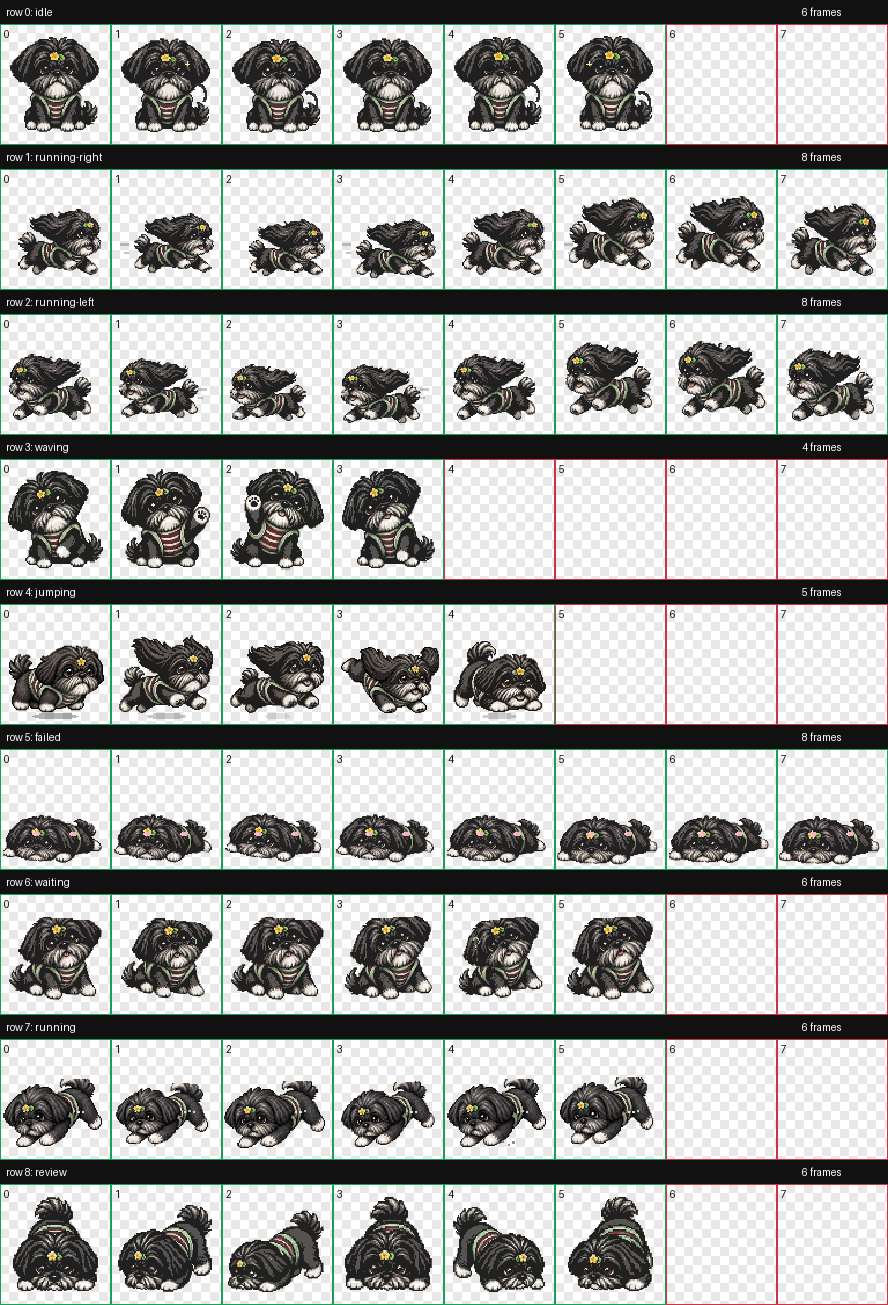
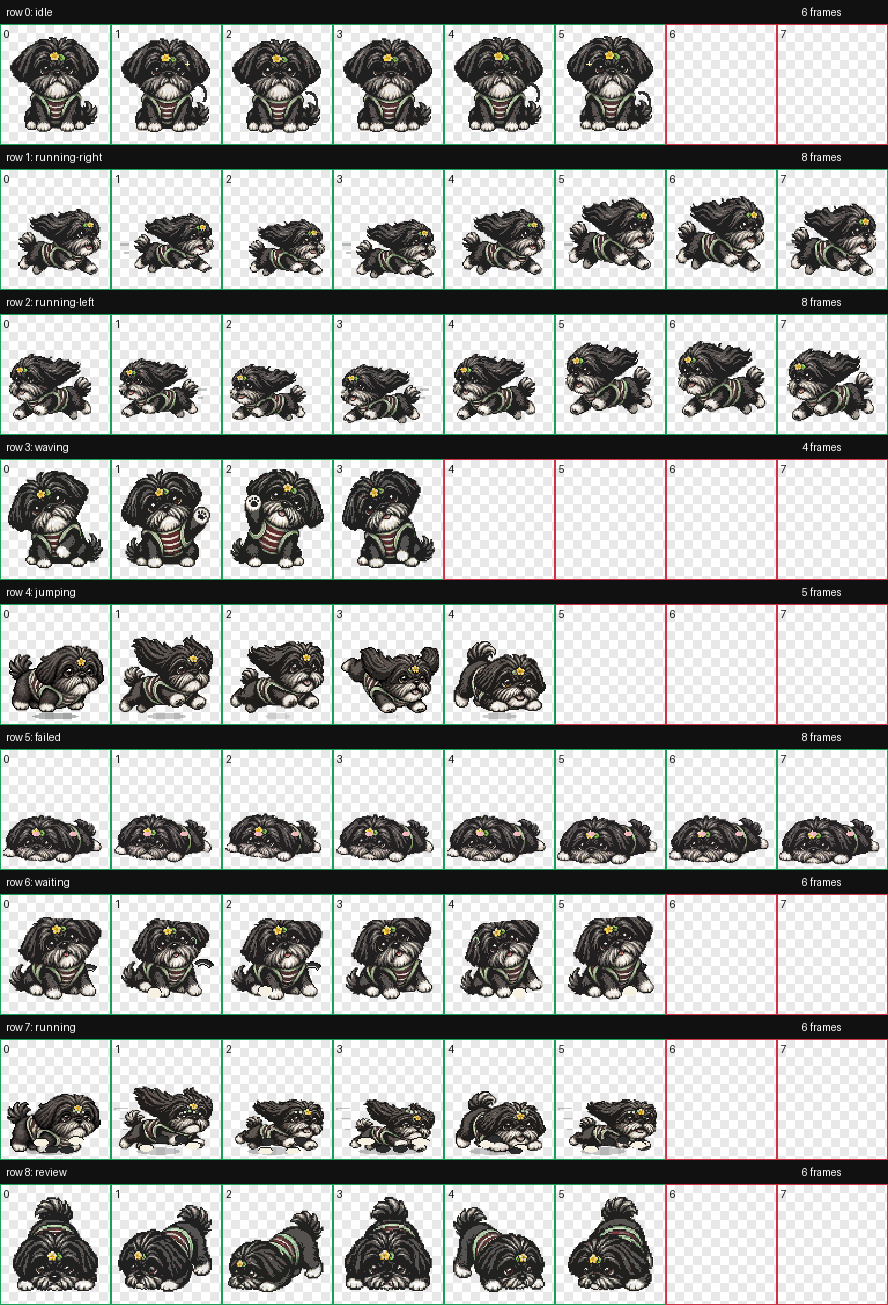
Make Udon running and waiting states more animated
Rework the active running row around the stronger four-legged jump poses so it reads as a low, forward run instead of a standing bounce. Add a clearer waiting loop with tail swish, paw tap, and small body motion.

Constraint: Codex custom pets use a fixed 8x9 atlas with row 7 mapped to running and row 6 mapped to waiting.

Rejected: Continuing to stretch the front-facing standing pose | it still looked like Udon was standing in place rather than running.

Confidence: medium

Scope-risk: narrow

Directive: Keep future running changes grounded in four-legged side poses, not the front idle pose.

Tested: python3 tools/build_udon_pet.py; verified spritesheet.webp is 1536x1872 and running/waiting GIFs are 192x208 with 6 frames; git diff --check

Not-tested: Live overlay refresh without restarting Codex, because the running app may cache pet assets.

diff --git a/tools/build_udon_pet.py b/tools/build_udon_pet.py
@@ -349,6 +349,130 @@ def add_tail_wag(canvas: Image.Image, frame: int) -> None:
     draw.arc((x - 10, y - 28 + offset, x + 22, y + 12 + offset), 250, 40, fill=(26, 27, 28, 230), width=5)
 
 
+def add_waiting_tail_swish(canvas: Image.Image, frame: int) -> None:
+    draw = ImageDraw.Draw(canvas)
+    # Draw this before the body so the tail reads as attached behind Udon.
+    tail_boxes = [
+        (132, 121, 176, 165, 210, 310),
+        (138, 112, 181, 155, 225, 330),
+        (134, 117, 178, 161, 215, 320),
+        (119, 112, 164, 157, 205, 305),
+        (112, 121, 157, 166, 195, 295),
+        (124, 118, 168, 162, 205, 310),
+    ]
+    x0, y0, x1, y1, start, end = tail_boxes[frame]
+    draw.arc((x0, y0, x1, y1), start, end, fill=(8, 9, 10, 245), width=11)
+    draw.arc((x0 + 2, y0 + 2, x1 - 3, y1 - 3), start, end, fill=(42, 42, 43, 245), width=7)
+    draw.arc((x0 + 6, y0 + 7, x1 - 8, y1 - 8), start + 4, end - 3, fill=(185, 181, 170, 155), width=2)
+
+
+def add_waiting_paw_tap(canvas: Image.Image, frame: int) -> None:
+    if frame not in {1, 2, 4, 5}:
+        return
+    draw = ImageDraw.Draw(canvas)
+    x = 63 if frame in {1, 2} else 118
+    lift = -5 if frame in {2, 5} else -2
+    draw_pixel_ellipse(draw, (x, 163 + lift, x + 24, 181 + lift), (246, 240, 224, 242))
+    draw.arc((x - 1, 162 + lift, x + 25, 182 + lift), 180, 360, fill=(8, 9, 10, 235), width=2)
+
+
+def add_front_run_shadow(canvas: Image.Image, frame: int) -> None:
+    draw = ImageDraw.Draw(canvas)
+    widths = [92, 80, 68, 82, 94, 76]
+    width = widths[frame]
+    draw.ellipse(
+        ((CELL_W - width) // 2, 188, (CELL_W + width) // 2, 199),
+        fill=(18, 22, 20, 58),
+    )
+
+
+def add_front_run_tail(canvas: Image.Image, frame: int) -> None:
+    draw = ImageDraw.Draw(canvas)
+    boxes = [
+        (132, 118, 176, 162, 220, 335),
+        (119, 110, 160, 151, 190, 305),
+        (128, 113, 171, 156, 210, 325),
+        (139, 112, 181, 154, 230, 345),
+        (127, 119, 170, 162, 210, 325),
+        (116, 116, 158, 159, 195, 310),
+    ]
+    x0, y0, x1, y1, start, end = boxes[frame]
+    draw.arc((x0, y0, x1, y1), start, end, fill=(8, 9, 10, 235), width=9)
+    draw.arc((x0 + 2, y0 + 2, x1 - 2, y1 - 2), start, end, fill=(44, 44, 45, 235), width=6)
+
+
+def add_front_run_paws(canvas: Image.Image, frame: int) -> None:
+    draw = ImageDraw.Draw(canvas)
+    # Alternating four-beat gait: front paws reach forward while rear paws tuck in.
+    paw_sets = [
+        [(55, 165, 22, 15), (118, 173, 24, 14), (72, 184, 20, 12), (105, 184, 20, 12)],
+        [(48, 173, 23, 14), (124, 164, 23, 15), (69, 181, 20, 12), (108, 187, 20, 12)],
+        [(59, 181, 22, 13), (113, 176, 22, 13), (65, 166, 20, 13), (114, 184, 20, 12)],
+        [(70, 174, 22, 14), (102, 165, 24, 15), (58, 184, 20, 12), (119, 181, 20, 12)],
+        [(55, 163, 23, 15), (119, 174, 23, 14), (73, 186, 20, 12), (104, 183, 20, 12)],
+        [(47, 171, 22, 14), (126, 166, 23, 15), (68, 184, 20, 12), (110, 186, 20, 12)],
+    ]
+    for index, (x, y, w, h) in enumerate(paw_sets[frame]):
+        fill = (248, 242, 226, 250) if index < 2 else (34, 34, 35, 235)
+        draw_pixel_ellipse(draw, (x, y, x + w, y + h), fill)
+        draw.arc((x - 1, y - 1, x + w + 1, y + h + 1), 180, 360, fill=(7, 8, 9, 235), width=2)
+    for x, y in [(38, 176), (147, 176)]:
+        if frame in {1, 3, 5}:
+            draw.line((x, y, x - 10 if x < 96 else x + 10, y + 2), fill=(91, 104, 98, 75), width=2)
+
+
+def add_side_run_shadow(canvas: Image.Image, frame: int) -> None:
+    draw = ImageDraw.Draw(canvas)
+    widths = [92, 76, 86, 108, 88, 78]
+    width = widths[frame]
+    draw.ellipse(
+        (44, 187, 44 + width, 199),
+        fill=(18, 22, 20, 60),
+    )
+
+
+def add_side_run_paws(canvas: Image.Image, frame: int) -> None:
+    draw = ImageDraw.Draw(canvas)
+    # Explicit gallop cycle. The generated dog body carries the face/harness;
+    # these paws make the running beat readable even at pet-overlay size.
+    paw_sets = [
+        [(58, 171, 26, 13), (119, 168, 25, 13), (79, 185, 22, 11), (105, 186, 22, 11)],
+        [(49, 181, 24, 12), (130, 177, 25, 12), (78, 166, 21, 12), (111, 166, 21, 12)],
+        [(63, 187, 24, 11), (111, 187, 24, 11), (69, 171, 22, 12), (125, 169, 22, 12)],
+        [(43, 169, 29, 13), (136, 170, 30, 13), (75, 184, 23, 11), (105, 184, 23, 11)],
+        [(61, 174, 25, 13), (121, 181, 24, 12), (76, 166, 22, 12), (113, 188, 22, 10)],
+        [(50, 183, 24, 12), (131, 176, 26, 12), (82, 170, 21, 12), (108, 168, 21, 12)],
+    ]
+    for index, (x, y, w, h) in enumerate(paw_sets[frame]):
+        fill = (247, 241, 225, 250) if index in {0, 1} else (28, 28, 29, 235)
+        draw_pixel_ellipse(draw, (x, y, x + w, y + h), fill)
+        draw.arc((x - 1, y - 1, x + w + 1, y + h + 1), 180, 360, fill=(7, 8, 9, 235), width=2)
+
+
+def add_side_run_tail(canvas: Image.Image, frame: int) -> None:
+    draw = ImageDraw.Draw(canvas)
+    boxes = [
+        (123, 100, 171, 142, 210, 340),
+        (124, 88, 176, 130, 215, 345),
+        (122, 94, 173, 136, 210, 338),
+        (127, 104, 176, 147, 218, 350),
+        (123, 98, 172, 140, 212, 340),
+        (126, 90, 176, 132, 218, 346),
+    ]
+    x0, y0, x1, y1, start, end = boxes[frame]
+    draw.arc((x0, y0, x1, y1), start, end, fill=(8, 9, 10, 235), width=10)
+    draw.arc((x0 + 2, y0 + 2, x1 - 2, y1 - 2), start, end, fill=(47, 47, 48, 235), width=6)
+
+
+def add_speed_lines(canvas: Image.Image, frame: int) -> None:
+    if frame in {0, 2, 4}:
+        return
+    draw = ImageDraw.Draw(canvas)
+    for i, length in enumerate((22, 15, 9)):
+        y = 119 + i * 18
+        draw.line((29, y, 29 - length, y + 1), fill=(91, 104, 98, 95), width=3)
+
+
 def add_dig_particles(canvas: Image.Image, frame: int) -> None:
     if frame not in {1, 2, 4}:
         return
@@ -363,6 +487,26 @@ def build_override_frame(row: int, frame: int, sprite: Image.Image) -> Image.Ima
     if row == 4:
         add_hop_shadow(canvas, min(frame, 4))
     paste_center(canvas, sprite)
+    return canvas.resize((CELL_W // 2, CELL_H // 2), Image.Resampling.NEAREST).resize((CELL_W, CELL_H), Image.Resampling.NEAREST)
+
+
+def build_running_from_jump_frame(frame: int, jump_sprites: list[Image.Image]) -> Image.Image:
+    canvas = Image.new("RGBA", (CELL_W, CELL_H), (255, 255, 255, 0))
+    sequence = [0, 1, 2, 1, 4, 2]
+    sprite = jump_sprites[sequence[frame]]
+    add_side_run_shadow(canvas, frame)
+    add_speed_lines(canvas, frame)
+    # Reuse the stronger four-legged jumping poses, but pin them close to the
+    # ground and stretch forward so they read as a run instead of a hop.
+    sprite = transform(
+        sprite,
+        sx=[1.05, 1.10, 1.14, 1.16, 1.08, 1.12][frame],
+        sy=[0.96, 0.93, 0.90, 0.88, 0.94, 0.91][frame],
+        angle=[0, -2, -4, -5, 1, -3][frame],
+    )
+    paste_center(canvas, sprite, dx=[-4, 0, 4, 8, 1, 5][frame], dy=[9, 7, 9, 11, 8, 10][frame])
+    add_side_run_paws(canvas, frame)
+    add_focus_dots(canvas, frame)
     return canvas.resize((CELL_W // 2, CELL_H // 2), Image.Resampling.NEAREST).resize((CELL_W, CELL_H), Image.Resampling.NEAREST)
 
 
@@ -401,14 +545,23 @@ def build_frame(row_sprites: list[Image.Image], row: int, frame: int) -> Image.I
         paste_center(canvas, sprite, dy=12 + [0, 1, 2, 1, 0, 0, -1, 0][frame])
         add_failed_blush(canvas)
     elif row == 6:  # waiting: curious head tilt and tongue peek
+        add_waiting_tail_swish(canvas, frame)
         angle = [-3, -6, -3, 3, 6, 3][frame]
-        sprite = transform(base, angle=angle)
-        paste_center(canvas, sprite, dy=1)
+        sprite = transform(base, sx=1.0 + [0.0, -0.01, 0.0, 0.01, 0.0, -0.01][frame], sy=1.0, angle=angle)
+        paste_center(canvas, sprite, dx=[0, -2, -1, 1, 2, 1][frame], dy=[1, 0, 1, 0, 1, 1][frame])
+        add_waiting_paw_tap(canvas, frame)
         add_question_marks(canvas, frame)
-    elif row == 7:  # running: focused work state, not directional travel
-        sprite = transform(base, sx=1.0 + 0.025 * phase, sy=1.0 - 0.015 * phase, angle=[0, -3, 0, 3, 0, -2][frame])
-        paste_center(canvas, sprite, dx=[0, -3, 0, 3, 0, -2][frame], dy=int(2 * phase))
-        add_dig_particles(canvas, frame)
+    elif row == 7:  # running: side gallop with readable four-paw motion
+        side = row_sprites[1]
+        add_side_run_shadow(canvas, frame)
+        add_side_run_tail(canvas, frame)
+        bob = [4, -6, 0, -9, 4, -3][frame]
+        stretch = [1.16, 1.08, 1.12, 1.22, 1.14, 1.09][frame]
+        height = [0.86, 0.92, 0.88, 0.84, 0.87, 0.91][frame]
+        sprite = transform(side, sx=stretch, sy=height, angle=[-5, -2, -4, -7, -5, -3][frame])
+        paste_center(canvas, sprite, dx=[-3, 1, 4, 7, 2, -1][frame], dy=bob + 8)
+        add_side_run_paws(canvas, frame)
+        add_speed_lines(canvas, frame)
         add_focus_dots(canvas, frame)
     else:  # review: alert, bright-eyed, ready for attention
         sprite = transform(base, sx=1.0 + 0.02 * phase, sy=1.0, angle=[0, -2, -3, -2, 0, 1][frame])
@@ -513,7 +666,9 @@ def main() -> None:
     sheet = Image.new("RGBA", (CELL_W * COLS, CELL_H * ROWS), (255, 255, 255, 0))
     for row in range(ROWS):
         for col in range(USED_FRAMES_BY_ROW[row]):
-            if row in overrides:
+            if row == 7 and 4 in overrides:
+                frame = build_running_from_jump_frame(col, overrides[4])
+            elif row in overrides:
                 frame = build_override_frame(row, col, overrides[row][col])
             else:
                 frame = build_frame(row_sprites, row, col)
